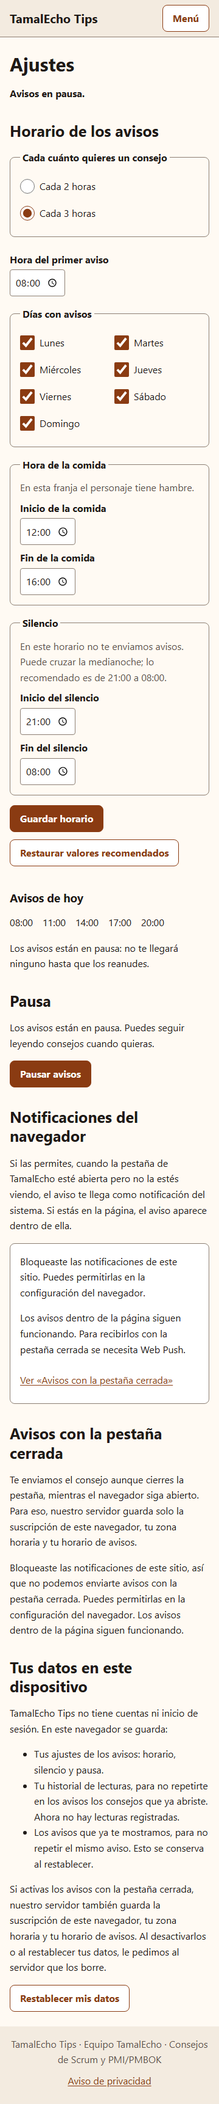
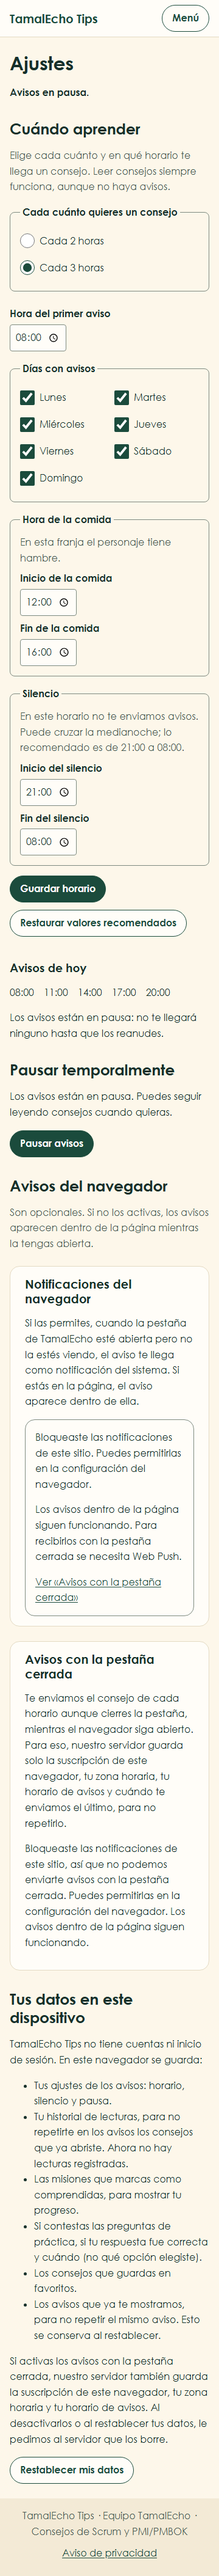
feat: release v1.1.0 with the finished pending backlog (WP-P7)

diff --git a/docs/sprint-3/PUNTO_DE_CONTROL.md b/docs/sprint-3/PUNTO_DE_CONTROL.md
@@ -1,7 +1,7 @@
 # Punto de control — dónde vamos y qué sigue
 
 > **Para una sesión nueva (persona o agente):** lee esto primero, después `CLAUDE.md` y el WP que toque en `docs/sprint-3/PENDIENTES.md`.
-> **Actualizado:** 15/11/2026, con `main` en `05ecf57`. Si `main` avanzó, revisa `git log` y los PR abiertos antes de confiar en este archivo.
+> **Actualizado:** 15/11/2026, con `main` en `cb3e965`. Si `main` avanzó, revisa `git log` y los PR abiertos antes de confiar en este archivo.
 > **Lo actualiza** quien termine o integre un WP: el agente al cerrar cada paso o Diego al integrar.
 
 ## 1. Por qué estamos aquí
@@ -14,36 +14,24 @@
 | WP | Qué | Estado | Siguiente acción |
 |---|---|---|---|
 | P0 | Plan, D-26 y `CLAUDE.md` | ✅ Integrado (#68) | — |
-| P1 | Web Push programado sin duplicados (HT-07.2, HU-15.2-A, HU-15.1-B, HT-06.1-B) | 🟡 PR **#69**, CI en verde | **Diego lo integra a mano.** Activa el envío cada 30 min en producción, y el sistema de permisos bloquea que el agente lo integre |
+| P1 | Web Push programado sin duplicados (HT-07.2, HU-15.2-A, HU-15.1-B, HT-06.1-B) | ✅ Integrado (#69) | Alan comprueba el envío programado con un navegador real |
 | P2 | Pausa desde el aviso, gestos y peso del personaje | ✅ Integrado (#70) | — |
 | P3 | Borrar historial, favoritos y compartir | ✅ Integrado (#71) | — |
-| P4 | Filtros combinados y selector único (HU-09) | 🟡 PR **#72**, CI en verde | Integrar |
-| P5 | PWA instalable y lectura sin conexión (HT-06.2, HU-12) | 🟡 PR **#73**, CI en curso | Integrar cuando el CI pase |
-| P6 | Microevaluación y progreso (HU-10) | ⬜ Sin empezar | Siguiente WP del agente (§3) |
-| P7 | Release `v1.1.0` | ⬜ Sin empezar | Después del P6 (§3) |
+| P4 | Filtros combinados y selector único (HU-09) | ✅ Integrado (#72) | — |
+| P5 | PWA instalable y lectura sin conexión (HT-06.2, HU-12) | ✅ Integrado (#73) | — |
+| P6 | Microevaluación y progreso (HU-10) | ✅ Integrado (#75). Preguntas en borrador (`approved: false`) | El PO las valida |
+| P7 | Release `v1.1.0` | 🟡 PR `release/v1.1.0` abierto (versión, README, S-06, evidencias) | **Diego lo integra y crea el tag** `v1.1.0` + GitHub Release (notas en el PR) |
 
-## 3. Qué sigue para el agente, en orden
-1. **Integrar #72 y #73** si sus CI pasaron. Si el sistema de permisos bloquea el merge, pásale a Diego el comando `gh pr merge <n> --squash --delete-branch`.
-2. **P6 · Microevaluación** (rama `feat/HU-10-quiz`, desde `main`):
-   - Pregunta voluntaria de opción múltiple en algunos consejos, con retroalimentación. Nunca bloquea la lectura.
-   - Las preguntas salen del texto ya aprobado de cada consejo y se marcan **borrador** (`approved: false`) hasta que el PO las valide (HU-10.1-B). **No inventar contenido ni fuentes.**
-   - Respuestas solo en el dispositivo, vía `storage.js` (`progress`), y un panel por enfoque en Mi progreso (HU-10.2-A).
-   - Botón «Reiniciar progreso» (HU-10.2-B), con confirmación en la página.
-   - Declararlo en el aviso de privacidad y en «Tus datos».
-3. **P7 · Release `v1.1.0`:**
-   - Actualizar `SEGURIDAD.md`: S-06 cambia con el envío programado.
-   - README y `package.json` a `1.1.0`.
-   - `check`, `test:e2e`, `validate:tips:release` y `evidence`.
-   - PR del release, tag `v1.1.0` y GitHub Release con el estado honesto de cada historia.
-4. Al terminar cada paso, **actualizar este archivo** (§2 y la fecha).
-
-**Cómo retomarlo con pocos tokens:** cambia a Sonnet (`/model sonnet`) y corre
-`/loop-lite Termina los WP pendientes de docs/sprint-3/PENDIENTES.md siguiendo docs/sprint-3/PUNTO_DE_CONTROL.md`.
+## 3. Qué sigue
+Todos los WP del agente (P0 a P7) están hechos. Solo queda:
+1. Integrar el PR del release y crear el tag `v1.1.0` con su GitHub Release (comandos en la descripción del PR).
+2. Lo de la §4, que solo pueden hacer personas.
+3. Si hay correcciones, salen como `v1.1.1` o superior (D-12).
 
 ## 4. Lo que solo pueden hacer personas
 | Quién | Qué |
 |---|---|
-| **Diego** | Integrar #69 (activa el envío programado). Decidir con Alan D-22 (revisión cruzada), D-23 (alcance del S3) y S-02 (límite de frecuencia de `/api/push/subscribe`) |
+| **Diego** | Integrar el PR del release y crear el tag `v1.1.0`. Decidir con Alan D-22 (revisión cruzada), D-23 (alcance del S3) y S-02 (límite de frecuencia de `/api/push/subscribe`) |
 | **Obdulio (PO)** | Aprobar los textos marcados como borrador: Ayuda, limitaciones, Privacidad y frases del personaje (`phrasesApproved`). Después, los textos nuevos de Historial, Mi progreso y Ajustes y, desde P6, las preguntas |
 | **Alan (QA)** | Pruebas manuales: T2-21 (push con la pestaña cerrada), T2-10 (Narrador), T3-09, T3-12 (Android), T3-13 (teclado), T3-15 (rollback), comprobar el envío programado tras integrar #69, la instalación de la PWA (HU-12.1-B) y la fluidez del personaje en un móvil básico |
 | **Ana (SM)** | Acta de aceptación, Review y Retrospectiva |
@@ -51,7 +39,7 @@
 
 ## 5. Tropiezos conocidos (para no repetirlos)
 - **Merges:**
-  - El sistema de permisos de Claude Code a veces bloquea `gh pr merge` (pasó con #67 y #69). No se rodea: se le pide a Diego.
+  - El sistema de permisos de Claude Code a veces bloquea `gh pr merge` (pasó con #67, #69 y #75). No se rodea: se le pide a Diego.
   - Cada PR integrado lleva un comentario: «Integrado por el agente con autorización de Diego… sin revisión de Alan registrada (D-22)».
 - **PR apilados:**
   - Borrar la rama base **cierra** los PR que dependen de ella. Hay que reasignarlos a `main` **antes** de integrar la base.

diff --git a/README.md b/README.md
@@ -6,7 +6,7 @@ Acceso público, sin registro.
 > Reglas del proyecto para personas y agentes: [`CLAUDE.md`](CLAUDE.md). Decisiones vigentes: [`docs/DECISIONES.md`](docs/DECISIONES.md).
 > Planes por sprint: [`docs/sprint-1/`](docs/sprint-1/PLAN.md), [`docs/sprint-2/`](docs/sprint-2/PLAN.md) y [`docs/sprint-3/`](docs/sprint-3/PLAN.md).
 
-**Versión entregada:** `v1.0.0` (13/11/2026, entrega final; adelantada respecto al 20/11 del plan por decisión de Diego). Versiones anteriores: `v0.1.0` (Sprint 1) y `v0.2.0` (Sprint 2).
+**Versión actual:** `v1.1.0` (15/11/2026), que termina el backlog pendiente de la propuesta (D-26). Versiones anteriores: `v1.0.0` (13/11/2026, entrega final del Sprint 3, adelantada por decisión de Diego), `v0.2.0` (Sprint 2) y `v0.1.0` (Sprint 1).
 
 ## Qué hace
 
@@ -14,9 +14,14 @@ Acceso público, sin registro.
 - **Avisos** cada 2 o 3 horas dentro de la página, con horario, días, silencio (21:00–08:00 por defecto) y pausa. A lo sumo un aviso por ventana; nunca se acumulan.
 - **Notificaciones del navegador** y **Web Push** opcionales; el permiso solo se pide tras un clic.
 - **Personaje** que cambia según la hora del día.
+- **Web Push programado** con la pestaña cerrada: un proceso revisa cada 30 minutos y envía a lo sumo un aviso por ventana y suscripción.
+- **Pausa desde el aviso** y gestos breves del personaje.
+- **Historial, favoritos y compartir**; **búsqueda y filtros combinados**; **Mi progreso** con racha e insignias.
+- **Preguntas de práctica** voluntarias en algunos consejos (hoy en **borrador**, pendientes de aprobación del PO) y «Reiniciar progreso».
+- **PWA instalable** y lectura sin conexión.
 - **Ayuda**, **aviso de privacidad** y canal de **sugerencias**.
 
-Sin cuentas ni datos personales: las preferencias y el historial viven en el navegador; el servidor solo guarda la suscripción push si se activa (ver `/privacidad`).
+Sin cuentas ni datos personales: las preferencias, el historial, los favoritos y el progreso viven en el navegador; el servidor solo guarda la suscripción push si se activa (ver `/privacidad`).
 
 ## Documentos de operación
 

diff --git a/docs/sprint-3/SEGURIDAD.md b/docs/sprint-3/SEGURIDAD.md
@@ -83,11 +83,11 @@ Ver §2: ni el repositorio, ni su historial, ni el bundle contienen las claves. 
 - **Servidor:** la suscripción se borra cuando:
   - la persona la desactiva o restablece sus datos;
   - el servicio de push responde 404 o 410 en un envío (`server/push.js`).
-- **S-06 (aceptado):**
-  - Una suscripción de alguien que deja de usar la página sin desactivarla se queda en el almacén hasta el siguiente envío que el servicio de push rechace.
-  - Mientras el envío programado no esté activo (HT-07.2-A), eso solo pasa en los envíos de prueba.
-  - El registro no tiene datos personales (CLAUDE.md §2), así que el impacto es bajo.
-  - Si entra el envío programado, se propone revisar esta decisión.
+- **S-06 (aceptado, revisado en `v1.1.0`):**
+  - Desde el WP-P1 el envío programado está activo (cada 30 minutos, `push-dispatch.yml`). Una suscripción de alguien que deja de usar la página sin desactivarla se borra en el primer envío que el servicio de push rechace con 404 o 410 (`server/push.js`). Ya no depende de envíos de prueba.
+  - Sigue sin existir una caducidad propia por tiempo: si el servicio de push no rechaza la suscripción, se queda en el almacén. Cada aviso lleva `TTL` de 2 horas, así que un aviso no entregado no se acumula.
+  - El registro no tiene datos personales (CLAUDE.md §2), así que el impacto sigue siendo bajo y el riesgo se mantiene **aceptado**.
+  - Revisión pendiente de una persona: con el envío programado en producción, Diego y Alan deciden si se agrega una caducidad por inactividad. No se implementó en este release.
 
 ## 4. Pendientes para el equipo
 1. Decidir S-02 (A, B o C) y anotarlo en `DECISIONES.md`.
